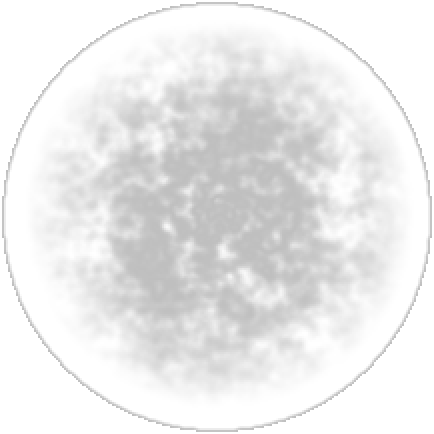
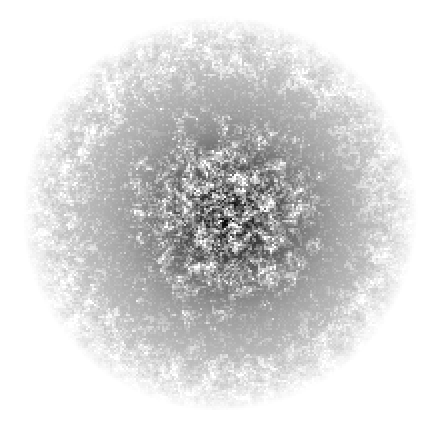
boss progress, new sunspot attack, edits

diff --git a/Content/NPCs/Mapping/Desert/SunDevourer/SunspotAura.cs b/Content/NPCs/Mapping/Desert/SunDevourer/SunspotAura.cs
@@ -1,17 +1,15 @@
 using System.Collections.Generic;
 using Terraria.GameContent;
-using Terraria.ID;
 
 namespace PathOfTerraria.Content.NPCs.Mapping.Desert.SunDevourer;
 
 public sealed class SunspotAura : ModProjectile
 {
-	public const int LifeTime = 60 * 8;
+	public const int LifeTime = 60 * 25;
+	public const float MaxOpacity = 0.5f;
 
-	/// <summary>
-	///		Gets or sets the index of the <see cref="Player"/> instance the projectile is homing towards. Shorthand for <c>Projectile.ai[1]</c>.
-	/// </summary>
-	public ref float Index => ref Projectile.ai[1];
+	public Vector2 Target => new(Projectile.ai[0], Projectile.ai[1]);
+	public bool Active => Projectile.DistanceSQ(Target) < 10 * 10;
 
 	public override void SetDefaults()
 	{
@@ -20,11 +18,11 @@ public sealed class SunspotAura : ModProjectile
 		Projectile.friendly = false;
 		Projectile.hostile = true;
 		Projectile.tileCollide = false;
-
 		Projectile.Size = new Vector2(434);
 		Projectile.timeLeft = LifeTime;
-		Projectile.Opacity = 0.3f;
+		Projectile.Opacity = MaxOpacity;
 		Projectile.hide = true;
+		Projectile.scale = 0.2f;
 	}
 
 	public override void DrawBehind(int index, List<int> behindNPCsAndTiles, List<int> behindNPCs, List<int> behindProjectiles, List<int> overPlayers, List<int> overWiresUI)
@@ -40,30 +38,66 @@ public sealed class SunspotAura : ModProjectile
 	public override void AI()
 	{
 		Projectile.rotation += 0.01f;
+		Projectile.Center = Vector2.Lerp(Projectile.Center, Target, 0.05f);
+
+		if (Active && Projectile.timeLeft > 60)
+		{
+			Projectile.scale = MathHelper.Lerp(Projectile.scale, 1, 0.05f);
+
+			if (!NPC.AnyNPCs(ModContent.NPCType<SunDevourerNPC>()))
+			{
+				Projectile.timeLeft = 60;
+			}
+		}
+
+		if (Projectile.timeLeft <= 60)
+		{
+			float factor = Projectile.timeLeft / 60f;
+			Projectile.scale = factor;
+			Projectile.Opacity = factor * MaxOpacity;
+		}
 	}
 
 	public override Color? GetAlpha(Color lightColor)
 	{
-		return Color.Black * Projectile.Opacity;
+		return Color.White * Projectile.Opacity;
 	}
 
-	//public override bool PreDraw(ref Color lightColor)
-	//{
-	//	lightColor = new Color(235, 97, 52, 0);
+	public override bool PreDraw(ref Color lightColor)
+	{
+		for (int i = 0; i <	1; ++i)
+		{
+			DrawProjectile(in lightColor, 1 - i / 6f);
+		}
 
-	//	DrawProjectile(in lightColor);
+		return false;
+	}
 
-	//	return false;
-	//}
+	private void DrawProjectile(in Color lightColor, float scale)
+	{
+		Texture2D texture = TextureAssets.Projectile[Type].Value;
+		Vector2 position = Projectile.Center - Main.screenPosition + new Vector2(DrawOffsetX, Projectile.gfxOffY);
+		Rectangle frame = texture.Frame(1, Main.projFrames[Type], 0, Projectile.frame);
+		Vector2 origin = frame.Size() / 2f + new Vector2(DrawOriginOffsetX, DrawOriginOffsetY);
+		SpriteEffects effects = Projectile.spriteDirection == -1 ? SpriteEffects.None : SpriteEffects.FlipHorizontally;
 
-	//private void DrawProjectile(in Color lightColor)
-	//{
-	//	Texture2D texture = TextureAssets.Projectile[Type].Value;
-	//	Vector2 position = Projectile.Center - Main.screenPosition + new Vector2(DrawOffsetX, Projectile.gfxOffY);
-	//	Rectangle frame = texture.Frame(1, Main.projFrames[Type], 0, Projectile.frame);
-	//	Vector2 origin = frame.Size() / 2f + new Vector2(DrawOriginOffsetX, DrawOriginOffsetY);
-	//	SpriteEffects effects = Projectile.spriteDirection == -1 ? SpriteEffects.None : SpriteEffects.FlipHorizontally;
+		Main.EntitySpriteDraw(texture, position, frame, Projectile.GetAlpha(lightColor), Projectile.rotation, origin, Projectile.scale * scale, effects);
+	}
 
-	//	Main.EntitySpriteDraw(texture, position, frame, Projectile.GetAlpha(lightColor), Projectile.rotation, origin, Projectile.scale, effects);
-	//}
+	/// <summary>
+	/// The projectile can't have this life drain functionality with lifeRegen in AI, so this does that instead.
+	/// </summary>
+	public class SunspotPlayer : ModPlayer
+	{
+		public override void UpdateBadLifeRegen()
+		{
+			foreach (Projectile projectile in Main.ActiveProjectiles)
+			{
+				if (projectile.ModProjectile is SunspotAura aura && aura.Active && projectile.DistanceSQ(Player.Center) < 217 * 217)
+				{
+					Player.lifeRegen -= 60;
+				}
+			}
+		}
+	}
 }

diff --git a/Content/NPCs/Mapping/Desert/SunDevourer/SunDevourerNPC.AI.cs b/Content/NPCs/Mapping/Desert/SunDevourer/SunDevourerNPC.AI.cs
@@ -55,6 +55,68 @@ public sealed partial class SunDevourerNPC : ModNPC
 			case DevourerState.Godrays:
 				GodrayAI();
 				break;
+
+			case DevourerState.Sunspots:
+				SunspotAI();
+				break;
+		}
+	}
+
+	private void SunspotAI()
+	{
+		Timer++;
+
+		if (Timer == 1)
+		{
+			addedPos = Vector2.Zero;
+		}
+
+		if (Timer > 5 && Timer % 30 == 0)
+		{
+			(int topXStart, int topXEnd) = (-722, 722);
+			(int bottomXStart, int bottomXEnd) = (-1284, 1284);
+			(int yTop, int yBottom) = (-460, 800);
+			int type = ModContent.ProjectileType<SunspotAura>();
+			float x;
+			float y;
+
+			while (true)
+			{
+				float yFac = Main.rand.NextFloat();
+				float xFac = Main.rand.NextFloat();
+
+				bool succeeded = true;
+				x = MathHelper.Lerp(MathHelper.Lerp(topXStart, topXEnd, xFac), MathHelper.Lerp(bottomXStart, bottomXEnd, xFac), yFac);
+				y = MathHelper.Lerp(yTop, yBottom, yFac);
+
+				foreach (Projectile projectile in Main.ActiveProjectiles)
+				{
+					if (projectile.ModProjectile is SunspotAura aura && aura.Target.DistanceSQ(IdleSpot + new Vector2(x, y)) < 600 * 600)
+					{
+						succeeded = false;
+					}
+				}
+
+				if (succeeded)
+				{
+					break;
+				}
+			}
+			
+			Projectile.NewProjectile(NPC.GetSource_FromAI(), NPC.Center, Vector2.Zero, type, 0, 0, Main.myPlayer, IdleSpot.X + x, IdleSpot.Y + y);
+		}
+
+		if (addedPos == Vector2.Zero || NPC.DistanceSQ(addedPos) < 50 * 50)
+		{
+			addedPos = IdleSpot + Main.rand.NextVector2Circular(300, 300);
+		}
+
+		NPC.velocity += NPC.DirectionTo(addedPos) * 0.2f;
+		NPC.velocity *= 0.99f;
+
+		if (Timer >= 220)
+		{
+			SetState(DevourerState.ReturnToIdle);
 		}
 	}
 
@@ -404,7 +466,17 @@ public sealed partial class SunDevourerNPC : ModNPC
 				}
 				else
 				{
-					SetState(DevourerState.Godrays);
+					int count = 0;
+
+					foreach (Projectile proj in Main.ActiveProjectiles)
+					{
+						if (proj.ModProjectile is SunspotAura)
+						{
+							count++;
+						}
+					}
+
+					SetState(count > 2 ? DevourerState.Godrays : DevourerState.Sunspots);
 				}
 			}
 		}

diff --git a/Content/NPCs/Mapping/Desert/SunDevourer/SunDevourerNPC.Main.cs b/Content/NPCs/Mapping/Desert/SunDevourer/SunDevourerNPC.Main.cs
@@ -24,6 +24,7 @@ public sealed partial class SunDevourerNPC : ModNPC
 		LightningAdds,
 		AbsorbSun,
 		Godrays,
+		Sunspots,
 	}
 
 	private static Asset<Texture2D> MaskTexture;
